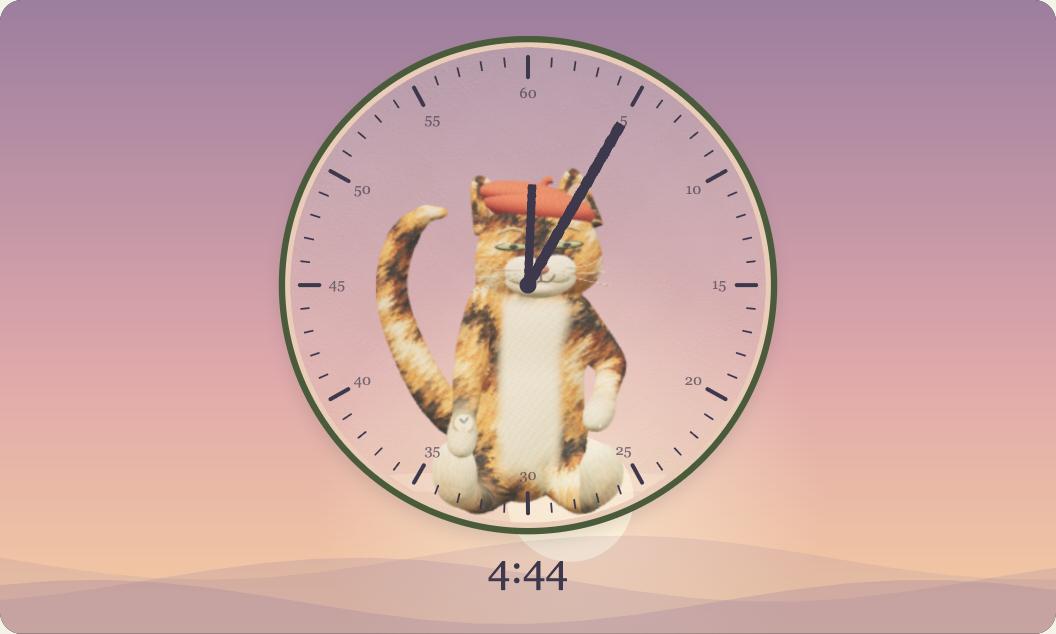
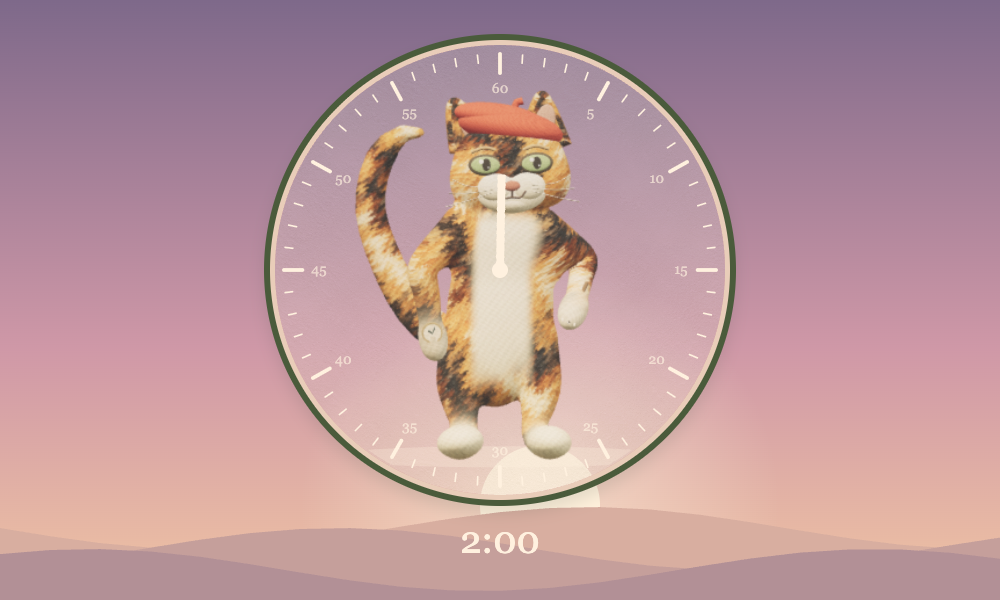
Make the mindfulness sun rise behind opaque distant hills

diff --git a/src/mindfulness.js b/src/mindfulness.js
@@ -63,7 +63,9 @@ export function drawSunrise(c,w,h,progress){
  c.fillStyle=sky.top;c.beginPath();c.arc(w*.80,h*.16,Math.min(w,h)*.035,0,Math.PI*2);c.fill();
  const sx=w*.54,sy=h*(1.12-.51*soften((p-.16)/.84)),radius=Math.min(w,h)*.10;
  c.globalAlpha=soften(p/.4);const halo=c.createRadialGradient(sx,sy,0,sx,sy,radius*4);halo.addColorStop(0,sky.sun+'a0');halo.addColorStop(1,sky.sun+'00');c.fillStyle=halo;c.fillRect(0,0,w,h);c.fillStyle=sky.sun;c.beginPath();c.arc(sx,sy,radius,0,Math.PI*2);c.fill();
- // Translucent, low hills anchor the quiet horizon without hiding the dial.
- for(let layer=0;layer<3;layer++){c.globalAlpha=.16+layer*.055;c.fillStyle=sky.top;c.beginPath();c.moveTo(0,h);c.lineTo(0,h*(.88+layer*.04));for(let i=0;i<=20;i++){const x=i*w/20,y=h*(.88+layer*.035)+Math.sin(i*.4+layer*2)*h*.035;c.lineTo(x,y);}c.lineTo(w,h);c.closePath();c.fill();}
+ // Keep the hills softly colored but fully opaque: the disc and its halo
+ // belong behind the distant ridge, rather than showing through the land.
+ let hill=blend(sky.middle,sky.horizon,.8);
+ for(let layer=0;layer<3;layer++){hill=blend(hill,sky.top,.16+layer*.055);c.globalAlpha=1;c.fillStyle=hill;c.beginPath();c.moveTo(0,h);c.lineTo(0,h*(.88+layer*.04));for(let i=0;i<=20;i++){const x=i*w/20,y=h*(.88+layer*.035)+Math.sin(i*.4+layer*2)*h*.035;c.lineTo(x,y);}c.lineTo(w,h);c.closePath();c.fill();}
  c.restore();return sky;
 }

diff --git a/docs/ARCHITECTURE.md b/docs/ARCHITECTURE.md
@@ -28,7 +28,7 @@ During the last minute, the cat removes one second mark at a time counter-clockw
 
 Mindfulness reuses the analog glass, minute painting, and fixed-length character solvers. `src/mindfulness.js` owns a 40-activity catalogue, a seeded shuffled deck, smooth breathing cycles, and a continuous sunrise palette. `src/characters/mindfulness.js` poses the skeleton, including seated and reclining positions. It does not play raster animation frames or display activity instructions.
 
-The sky is derived from remaining time divided by the original duration: stars fade, the sun rises, and indigo changes through lavender and rose into a pale golden morning. Added time can return the sky to an earlier point; restart begins at night. Pause freezes the sky and poses. Reduced motion retains the gradual countdown palette with a still cat, followed by the fixed closing illustration.
+The sky is derived from remaining time divided by the original duration: stars fade, the sun rises from behind the distant hills, and indigo changes through lavender and rose into a pale golden morning. Hill colors are blended into opaque fills so the land hides both the solar disc and its halo. Added time can return the sky to an earlier point; restart begins at night. Pause freezes the sky and poses. Reduced motion retains the gradual countdown palette with a still cat, followed by the fixed closing illustration.
 
 Each minute offers two twenty-second windows, beginning at seconds 8 and 33 after the painting boundary. A seeded deck draws every activity once before repeating. Intervals too short to finish a complete activity skip it. The final minute keeps the same calm behavior until its last six seconds, when the cat erases the last minute’s line and paints the hand at zero. At the deadline it eases into namaste, with joined upright paws at the chest. This closing is excluded from the random deck and stays visible after completion. Mindfulness does not use claw scratches or the glass-break ending.
 

diff --git a/QA.md b/QA.md
@@ -2,6 +2,10 @@
 
 Release checks ran on October 27, 2026, with installed desktop Chrome, hardware-accelerated WebGL on an Apple M4 Pro, and Playwright. The complete [machine-readable report](docs/verification-2.3.0.json) records the results. See the [developer guide](docs/DEVELOPMENT.md) to repeat the suite with a local server and Playwright.
 
+## 2.3.3 sunrise occlusion
+
+The sun and its halo are hidden by opaque, softly colored hills. A browser regression compares each sunrise with a reference that omits the sun and halo: all pixels safely below the distant ridge are identical, while sunlight remains visible above it. Six samples cover three sunrise stages in landscape and portrait canvases. All 52 unit checks also passed. See the [2.3.3 verification record](docs/verification-2.3.3.json).
+
 ## 2.3.2 timer links and QR code
 
 All 52 unit checks and the direct-link browser checks passed. The one-minute mindfulness link starts automatically after artwork loading, preserves a full minute, supports pause and restart, and reaches the namaste closing. A link without automatic start fills the setup; malformed presets leave its defaults unchanged. The 1128px QR PNG was decoded with the native macOS QR detector and matched the public link exactly. See the [2.3.2 verification record](docs/verification-2.3.2.json).

diff --git a/CHANGELOG.md b/CHANGELOG.md
@@ -1,5 +1,11 @@
 # Release notes
 
+## 2.3.3 · October 27, 2026
+
+- Make the distant hills hide the sun and its halo so sunrise emerges from behind the ridge.
+- Preserve the soft layered hill colors with opaque fills instead of translucent overlays.
+- Add landscape and portrait pixel checks for sunlight visibility above and occlusion below the distant hills.
+
 ## 2.3.2 · October 27, 2026
 
 - Add shareable timer links with mode, duration in seconds, and optional automatic start after artwork loading.

diff --git a/docs/DEVELOPMENT.md b/docs/DEVELOPMENT.md
@@ -35,6 +35,7 @@ npm run test:performance
 npm run test:mindfulness
 npm run test:homepage-preview
 npm run test:timer-links
+npm run test:sunrise
 ```
 
 For the complete release suite, including the gesture preview:
